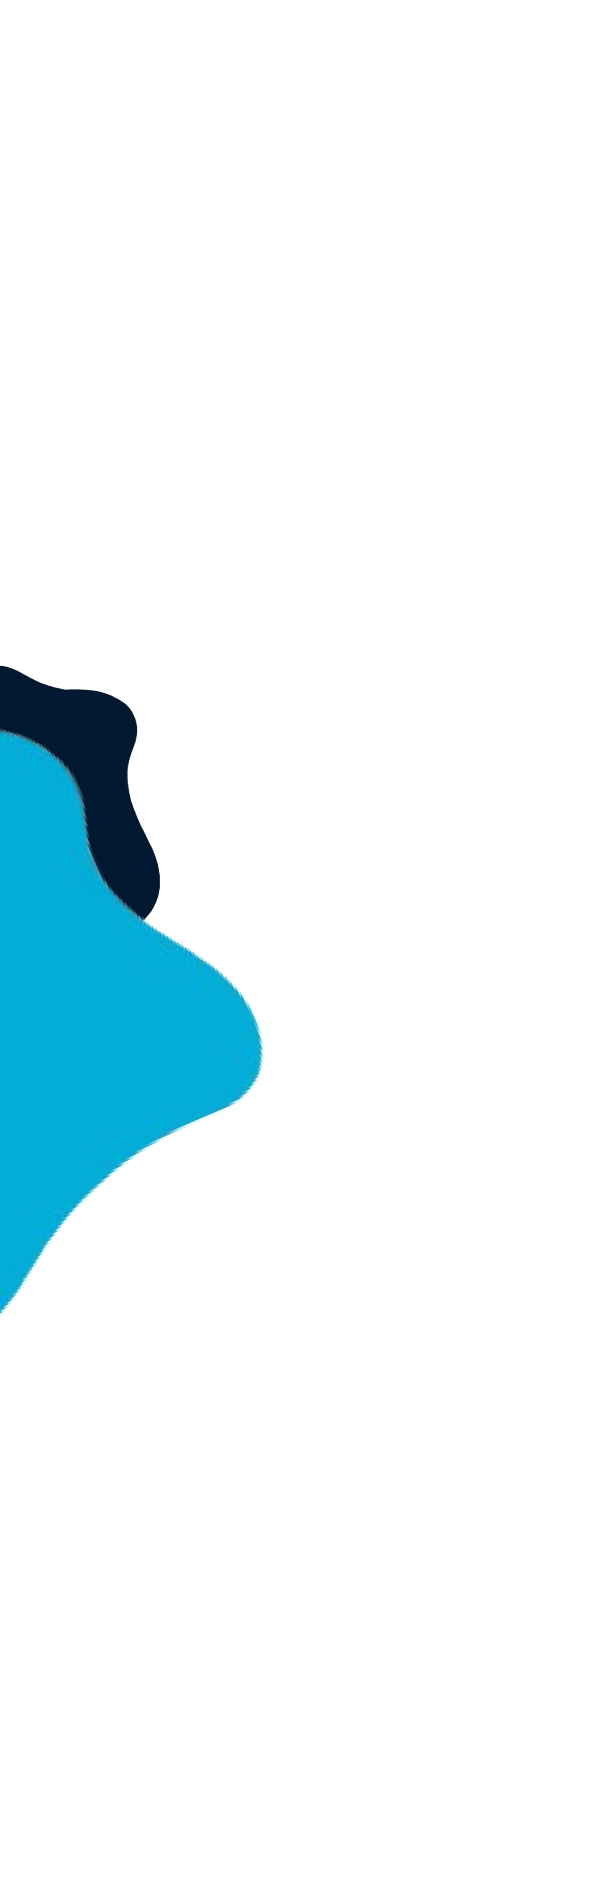
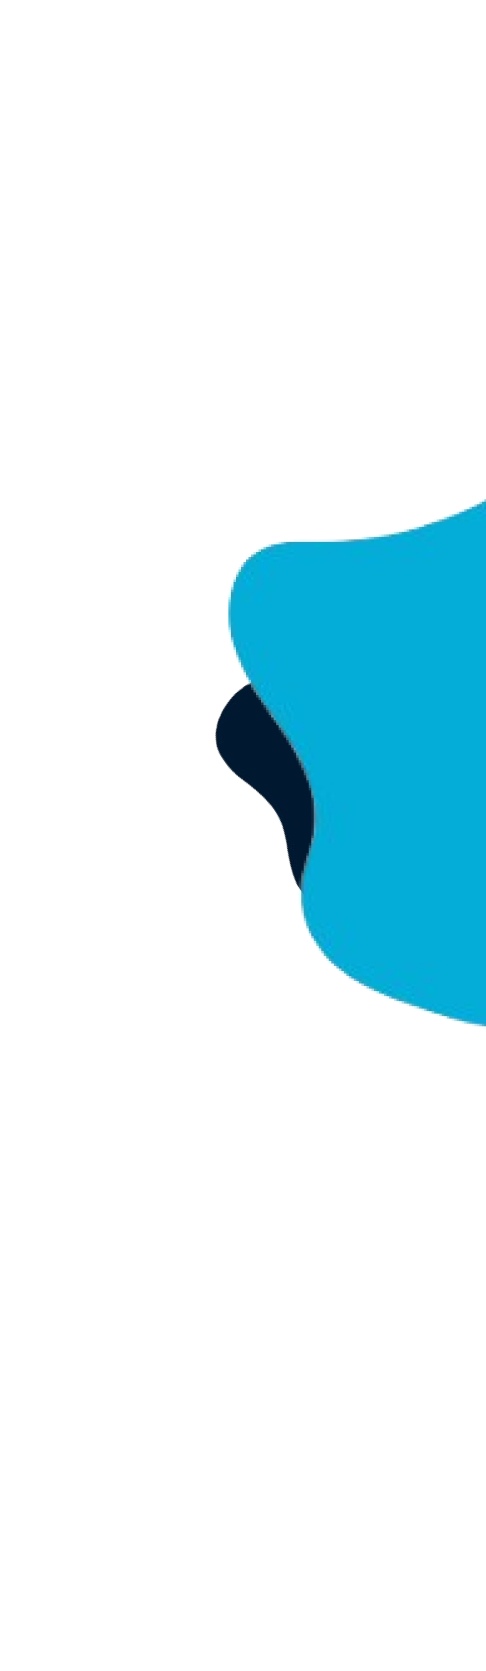
formas pagina sobre nos

Changed region(s): [[0.4321, 0.2801, 1.0, 0.6224], [0.0, 0.3423, 0.4321, 0.7157]]

diff --git a/src/Pages/Sobre/index.tsx b/src/Pages/Sobre/index.tsx
@@ -6,8 +6,10 @@ import Img from "../../Assets/SobreNos//SobreNos.png";
 import valoresIcon from "../../Assets/SobreNos/valores.png";
 import visaoIcon from "../../Assets/SobreNos/visao.png";
 import missaoIcon from "../../Assets/SobreNos/missao.png";
-// import sobreFormaDireita from '../../Assets/SobreFormaDireita.png'
-// import sobreFormaEsquerda from '../../Assets/SobreFormaEsquerda.png'
+
+import sobreFormaDireita from '../../Assets/SobreNos/SobreFormaDireita.png'
+import sobreFormaEsquerda from '../../Assets/SobreNos/SobreFormaEsquerda.png'
+
 
 import {
   Content,
@@ -19,8 +21,10 @@ import {
   CardsContainer,
   BannerImg,
   IconContainer,
+  ImgContainer,
+  ImageRight,
+  ImageLeft
 } from "./style";
-// import { ImageLeft, ImageRight } from './style';
 
 import Slider from '../../Components/Slider';
 
@@ -60,8 +64,6 @@ const Sobre: React.FC = () => {
         <Banner>
           <BannerImg src={Img} />
           <Slogan>Sobre nós</Slogan>
-          {/* <ImageRight src={sobreFormaDireita} alt="Forma Direita" />
-                <ImageLeft src={sobreFormaEsquerda} alt="Forma Esquerda" /> */}
         </Banner>
 
         <CardsContainer>
@@ -74,7 +76,13 @@ const Sobre: React.FC = () => {
               <Text>{card.text}</Text>
             </Card>
           ))}
+
         </CardsContainer>
+
+        <ImgContainer>
+          <ImageRight src={sobreFormaDireita} alt="forma ilustracao"/>
+          <ImageLeft src={sobreFormaEsquerda} alt="forma ilustracao"/>
+        </ImgContainer>
 
         <Historia />
 

diff --git a/src/Pages/Sobre/style.ts b/src/Pages/Sobre/style.ts
@@ -36,15 +36,6 @@ export const BannerImg = styled.img`
   }
 `;
 
-// export const Imagem = styled.img`
-//   display: block;
-//   flex-direction: column;
-//   justify-content: left;
-//   width: 40%;
-//   margin-right: 20%;
-//   margin-top: 9%;
-// `;
-
 export const Titulo = styled.p`
   margin-top: 10%;
   font-family: "Poppins";
@@ -125,18 +116,32 @@ export const IconContainer = styled.div`
   width: 100%;
 `;
 
+export const ImgContainer = styled.div`
+  width: 100%;
+  position: relative;
+
+  z-index: -1;
+`
+
 export const ImageLeft = styled.img`
   position: absolute;
-  width: 450px;
-  height: auto;
-  top: 600px;
-  margin-left: 1600px;
+  top: 200px;
+  left: 0;
+  height: 600px;
+
+  @media (max-width: 1100px) {
+    display: none;
+  }
+
 `;
 
 export const ImageRight = styled.img`
   position: absolute;
-  width: 450px;
-  height: auto;
-  top: 1100px;
-  margin-right: 1500px;
+  right: 0;
+  top: -300px;
+  height: 600px;
+
+  @media (max-width: 1100px) {
+    display: none;
+  }
 `;
